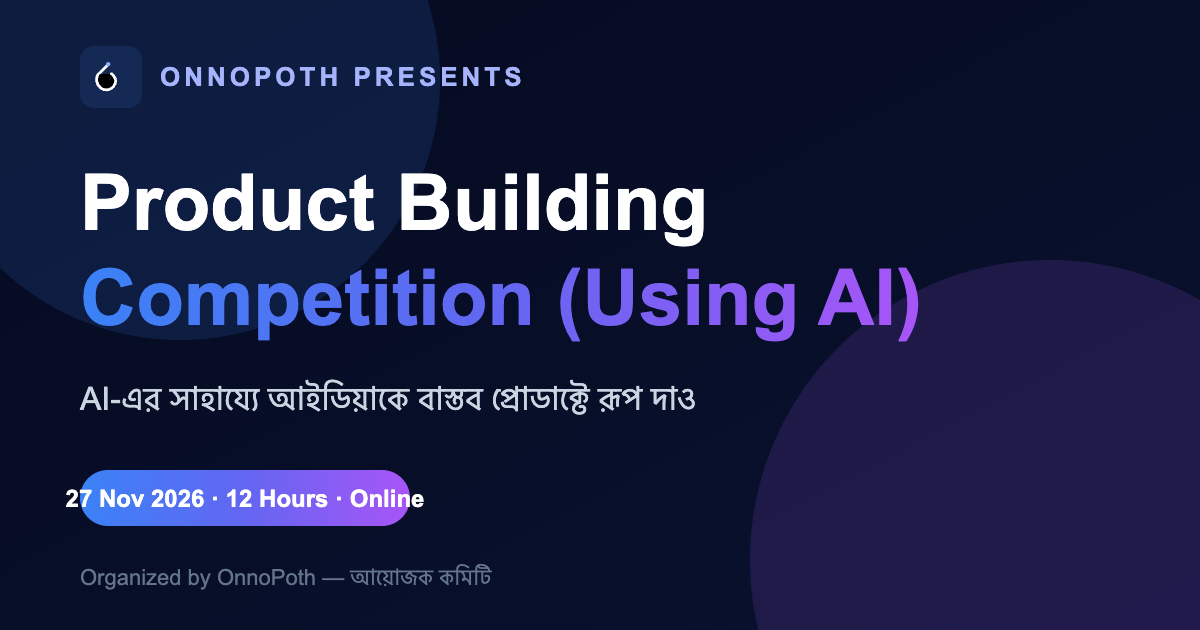
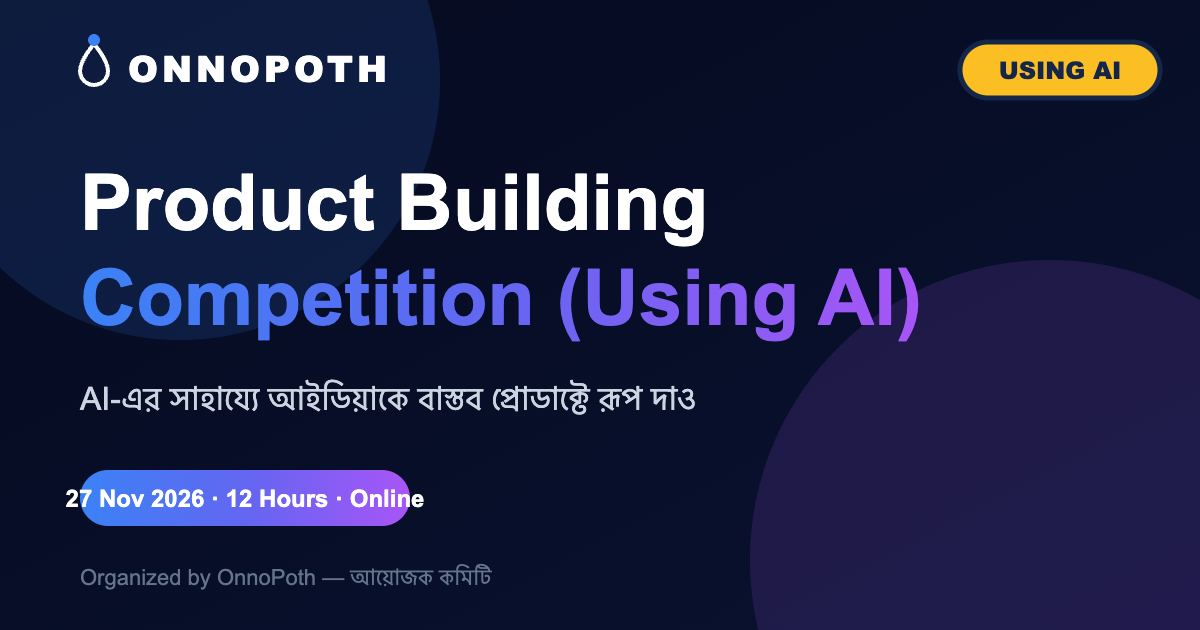
Apply new OnnoPoth branding everywhere and set registration window to 19-23 Nov

Changed region(s): [[0.0617, 0.0603, 0.4317, 0.1508], [0.8017, 0.0603, 0.9867, 0.181]]

diff --git a/components/Hero.js b/components/Hero.js
@@ -12,7 +12,7 @@ import {
 } from 'lucide-react';
 import Countdown from './Countdown';
 import ShareButtons from './ShareButtons';
-import { event, socialLinks } from '@/lib/config';
+import { event, dates, socialLinks } from '@/lib/config';
 
 /** Small row inside the event-pass card. */
 function DetailRow({ icon: Icon, label, value }) {
@@ -54,18 +54,20 @@ export default function Hero() {
                 Registration Open
               </span>
               <span className="badge">
-                <CalendarDays className="h-3.5 w-3.5 text-indigo-300" /> 20–23 Nov
+                <CalendarDays className="h-3.5 w-3.5 text-indigo-300" /> {dates.registrationWindowLabelEn}
               </span>
             </div>
 
-            {/* Headline */}
-            <h1 className="text-[clamp(2.8rem,8vw,5.4rem)] font-extrabold leading-[0.98] tracking-[-0.045em] text-white">
-              <span className="block">Product Building</span>
-              <span className="gradient-text block pb-1">Competition</span>
-              <span className="mt-2 block text-[0.42em] font-semibold tracking-[-0.01em] text-slate-400">
-                (Using AI)
-              </span>
-            </h1>
+            {/* Headline — official competition logo */}
+            <h1 className="sr-only">{event.name}</h1>
+            <div className="mx-auto max-w-2xl lg:mx-0">
+              {/* eslint-disable-next-line @next/next/no-img-element */}
+              <img
+                src="/competition-logo-dark.svg"
+                alt={`${event.name} — ${event.organizer}`}
+                className="w-full drop-shadow-[0_20px_40px_rgba(0,0,0,0.5)]"
+              />
+            </div>
 
             {/* Bangla subtitle */}
             <p className="mx-auto mt-6 max-w-xl text-lg leading-relaxed text-slate-300 sm:text-xl lg:mx-0">
@@ -184,7 +186,7 @@ export default function Hero() {
               {/* Organizer strip */}
               <div className="mt-6 flex items-center gap-3 rounded-2xl border border-white/10 bg-white/[0.03] p-3">
                 {/* eslint-disable-next-line @next/next/no-img-element */}
-                <img src="/logo.svg" alt="OnnoPoth logo" className="h-9 w-9 rounded-lg" />
+                <img src="/logo-light.svg" alt="OnnoPoth" className="h-5 w-auto" />
                 <div>
                   <p className="text-xs font-bold text-white">Organized by OnnoPoth</p>
                   <p className="text-[11px] text-slate-500">আয়োজক কমিটি</p>
@@ -209,7 +211,7 @@ export default function Hero() {
         {/* ---------------- Bottom ticker ---------------- */}
         <div className="mt-16 overflow-hidden rounded-2xl border border-white/10 bg-white/[0.025] py-3.5">
           <div className="flex flex-wrap items-center justify-center gap-x-7 gap-y-2 px-4 text-[10px] font-bold uppercase tracking-[0.16em] text-slate-400 sm:text-[11px]">
-            <span>20–23 Nov · Registration</span>
+            <span>{dates.registrationWindowLabelEn} · Registration</span>
             <span className="h-1 w-1 rounded-full bg-indigo-400" />
             <span>25 Nov · Confirmed list</span>
             <span className="h-1 w-1 rounded-full bg-indigo-400" />

diff --git a/components/Navbar.js b/components/Navbar.js
@@ -38,19 +38,13 @@ export default function Navbar() {
     >
       <nav className="mx-auto flex h-[72px] max-w-7xl items-center justify-between px-4 sm:px-6 lg:px-8">
         {/* Brand */}
-        <a href="/#home" className="group flex items-center gap-2.5" aria-label="OnnoPoth — Home">
-          <span className="grid h-9 w-9 place-items-center rounded-xl bg-navy-800 shadow-glow ring-1 ring-white/10">
-            {/* eslint-disable-next-line @next/next/no-img-element */}
-            <img src="/logo.svg" alt="OnnoPoth logo" className="h-7 w-7" />
-          </span>
-          <span className="leading-tight">
-            <span className="block text-sm font-extrabold tracking-tight text-white sm:text-base">
-              OnnoPoth
-            </span>
-            <span className="block text-[10px] font-medium text-indigo-300 sm:text-[11px]">
-              Product Build Competition
-            </span>
-          </span>
+        <a href="/#home" className="group flex items-center" aria-label="OnnoPoth — Home">
+          {/* eslint-disable-next-line @next/next/no-img-element */}
+          <img
+            src="/logo-light.svg"
+            alt="OnnoPoth"
+            className="h-6 w-auto transition group-hover:opacity-80 sm:h-7"
+          />
         </a>
 
         {/* Desktop links */}

diff --git a/lib/rulebook.js b/lib/rulebook.js
@@ -68,7 +68,7 @@ export const rulebookSections = [
       {
         type: 'table',
         rows: [
-          ['২০–২৩ নভেম্বর', 'রেজিস্ট্রেশন ও আইডিয়া জমা'],
+          ['১৯–২৩ নভেম্বর', 'রেজিস্ট্রেশন ও আইডিয়া জমা'],
           ['২৪ নভেম্বর', 'আইডিয়া যাচাই'],
           ['২৫ নভেম্বর', 'কনফার্মড প্রতিযোগীদের তালিকা ঘোষণা'],
           ['২৬ নভেম্বর', 'নিয়মাবলি ও ব্রিফিং'],
@@ -89,7 +89,7 @@ export const rulebookSections = [
         type: 'steps',
         items: [
           {
-            title: 'ধাপ ১: রেজিস্ট্রেশন ও আইডিয়া জমা (২০–২৩ নভেম্বর)',
+            title: 'ধাপ ১: রেজিস্ট্রেশন ও আইডিয়া জমা (১৯–২৩ নভেম্বর)',
             blocks: [
               {
                 type: 'p',

diff --git a/components/Footer.js b/components/Footer.js
@@ -30,12 +30,9 @@ export default function Footer() {
         <div className="grid gap-10 md:grid-cols-3">
           {/* Brand */}
           <div>
-            <div className="flex items-center gap-2.5">
-              <span className="grid h-9 w-9 place-items-center rounded-xl bg-navy-800 shadow-glow ring-1 ring-white/10">
-                {/* eslint-disable-next-line @next/next/no-img-element */}
-                <img src="/logo.svg" alt="OnnoPoth logo" className="h-7 w-7" />
-              </span>
-              <span className="text-lg font-extrabold text-white">{event.organizer}</span>
+            <div className="flex items-center">
+              {/* eslint-disable-next-line @next/next/no-img-element */}
+              <img src="/logo-light.svg" alt="OnnoPoth" className="h-7 w-auto" />
             </div>
             <p className="mt-4 max-w-xs text-sm leading-relaxed text-slate-400">
               {event.tagline}। {event.organizer} — একটি উন্মুক্ত লার্নিং কমিউনিটি।

diff --git a/lib/config.js b/lib/config.js
@@ -32,10 +32,14 @@ export const dates = {
   competitionStart: '2026-11-27T10:00:00+06:00',
   // Competition ends: 27 November 2026, 10:00 PM (UTC+6)
   competitionEnd: '2026-11-27T22:00:00+06:00',
+  // Registration runs 19–23 November 2026 (UTC+6)
+  registrationStart: '2026-11-19T00:00:00+06:00',
   // Registration closes: 23 November 2026, 11:59 PM (UTC+6)
   registrationDeadline: '2026-11-23T23:59:00+06:00',
   // Human-readable version shown in the UI.
   competitionStartLabel: '২৭ নভেম্বর ২০২৬, সকাল ১০টা (UTC+6)',
+  registrationWindowLabel: '১৯–২৩ নভেম্বর',
+  registrationWindowLabelEn: '19–23 Nov',
   registrationDeadlineLabel: '২৩ নভেম্বর ২০২৬, রাত ১১:৫৯ (UTC+6)',
   submissionDeadlineLabel: '২৭ নভেম্বর ২০২৬, রাত ১০টা (UTC+6)',
 };

diff --git a/components/Timeline.js b/components/Timeline.js
@@ -1,10 +1,11 @@
 import { CalendarRange, CheckCircle2, ListChecks, Megaphone, Cpu, Trophy } from 'lucide-react';
 import SectionHeading from './SectionHeading';
+import { dates } from '@/lib/config';
 
 const items = [
   {
     icon: CalendarRange,
-    date: '২০–২৩ নভেম্বর',
+    date: dates.registrationWindowLabel,
     title: 'রেজিস্ট্রেশন ও আইডিয়া জমা',
     text: 'ফর্ম পূরণ করে প্রোডাক্টের নাম ও আইডিয়া জমা দিন। টিম হলে সবার নাম ও টিম লিডার উল্লেখ করুন।',
   },

diff --git a/components/CompetitorIdCard.js b/components/CompetitorIdCard.js
@@ -25,7 +25,7 @@ export default function CompetitorIdCard({ data = idCardSample }) {
       {/* Header — branding only, no extra identity fields */}
       <div className="id-card-header flex flex-wrap items-center gap-4 border-b border-white/10 px-6 py-5 sm:px-9">
         {/* eslint-disable-next-line @next/next/no-img-element */}
-        <img src="/logo.svg" alt="OnnoPoth logo" className="h-11 w-11 shrink-0 rounded-xl" />
+        <img src="/logo-light.svg" alt="OnnoPoth" className="h-6 w-auto shrink-0" />
         <div className="min-w-0 flex-1">
           <p className="text-[11px] font-extrabold uppercase tracking-[0.24em] text-indigo-300">
             OnnoPoth

diff --git a/components/HowItWorks.js b/components/HowItWorks.js
@@ -7,12 +7,13 @@ import {
   Send,
 } from 'lucide-react';
 import SectionHeading from './SectionHeading';
+import { dates } from '@/lib/config';
 
 const steps = [
   {
     icon: ClipboardList,
     title: 'রেজিস্ট্রেশন ও আইডিয়া',
-    text: 'ফর্ম পূরণ করে প্রোডাক্টের নাম ও আইডিয়া জমা দিন (২০–২৩ নভেম্বর)।',
+    text: `ফর্ম পূরণ করে প্রোডাক্টের নাম ও আইডিয়া জমা দিন (${dates.registrationWindowLabel})।`,
   },
   {
     icon: BadgeCheck,

diff --git a/app/globals.css b/app/globals.css
@@ -265,6 +265,11 @@ section[id] {
   .id-card-label {
     color: #475569 !important;
   }
+
+  /* Make the white wordmark legible on the white printed card. */
+  .id-card img {
+    filter: brightness(0);
+  }
 }
 
 /* Hide the honeypot from humans (and from layout) but keep it in the DOM. */
